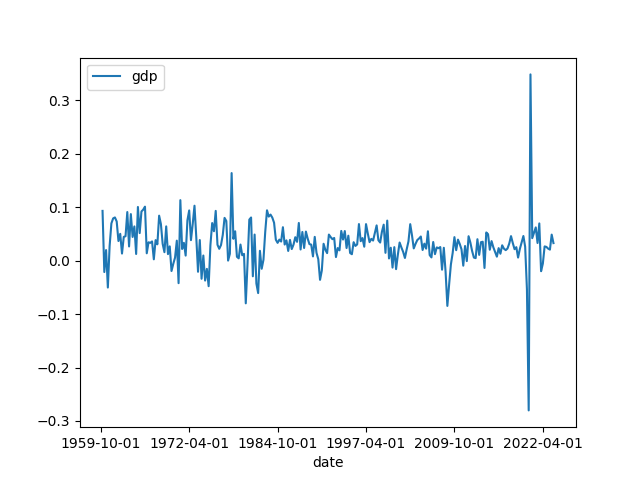
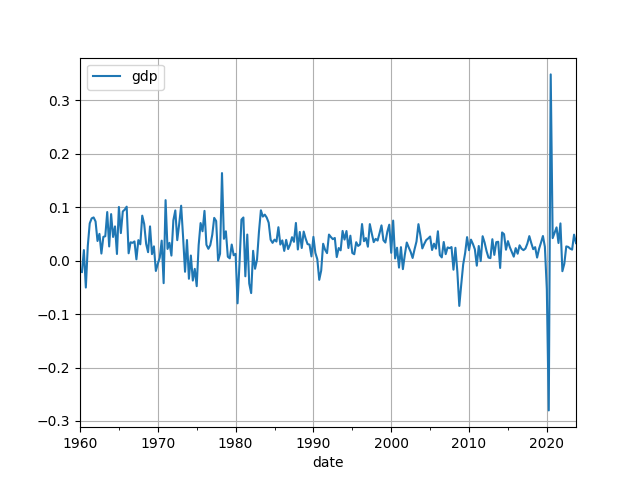
add grid to gdp figure

diff --git a/analysis.py b/analysis.py
@@ -37,13 +37,15 @@ def question_one_b():
     gdp_data['gdp'] = gdp_data['gdp'].pct_change()
     # annualize results
     gdp_data['gdp'] = (1 + gdp_data['gdp'])**4 - 1
-    # plot and save to file, and grid lines to the plot
-    gdp_data.plot(x='date', y='gdp').get_figure().savefig('gdp.png')
-    # add grid lines
-    matplotlib.pyplot.grid(True)
+    # plot using matplotlib
+    gdp_data['date'] = pd.to_datetime(gdp_data['date'])
+    ax = gdp_data.plot(x='date', y='gdp')
+    # add grid to plot
+    ax.grid()
+    # save to file
+    ax.get_figure().savefig('answers/gdp_growth.png')
 
-
-# question_one_b()
+question_one_b()
     
 question_two = """
 (a) Make a figure of the inflation rate from 1959Q1 to 2023Q4.
